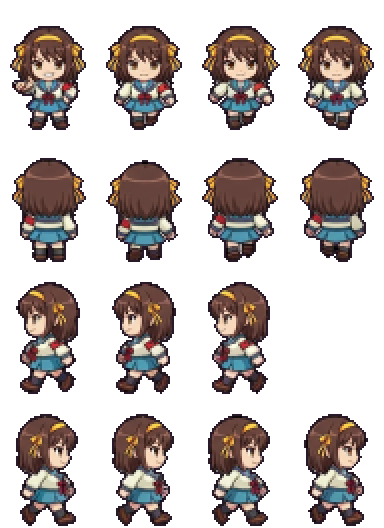
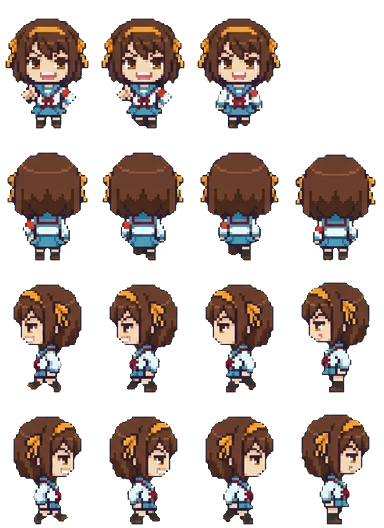
Redraw Suzumiya Haruhi in the shared art style
Claude-Session: https://claude.ai/code/session_01KaPsBYLrtbRfMYNG2xeBCK

diff --git a/docs/app.js b/docs/app.js
@@ -75,7 +75,7 @@ function spr(cat, k, col, sc) {
   return `<div class="clip" style="width:${it[2] * sc}px;height:${it[3] * sc}px;POS"><img class="px" src="assets/decor/${cat}.png" alt="" style="width:${S.sw * sc}px;height:${S.sh * sc}px;margin-left:${-col * S.cw * sc}px;margin-top:${-i * S.ch * sc}px"></div>`;
 }
 const icon = (k, sz) => `<span class="itm" style="width:${sz}px;height:${sz}px"><img class="px" src="assets/ui/items.png" alt="" style="width:${IT.length * sz}px;height:${sz}px;margin-left:${-ITM[k].i * sz}px"></span>`;
-const face = (id, w) => { const s = w / 96; return `<img class="px" src="assets/ch/${id}.webp?v=71" alt="" style="position:absolute;width:${384 * s}px;height:${528 * s}px;left:${-(96 * s - w) / 2}px;top:0;max-width:none">`; };
+const face = (id, w) => { const s = w / 96; return `<img class="px" src="assets/ch/${id}.webp?v=72" alt="" style="position:absolute;width:${384 * s}px;height:${528 * s}px;left:${-(96 * s - w) / 2}px;top:0;max-width:none">`; };
 
 // ---------- 저장 ----------
 let fb = null, user = null, S = null, saveT = null;
@@ -143,7 +143,7 @@ function sleepHTML(id, r, dy) {
   const pos = r.a && r.a[0] === 'bed' ? 'left:3%;bottom:20%' : r.b && r.b[0] === 'bed' ? 'right:3%;bottom:20%' : 'left:calc(50% - 44px);bottom:6%';
   const s = 36 / 96;
   return `<div style="position:absolute;width:88px;height:56px;${pos};z-index:${dy ? 4 : 5};${dy ? `transform:translate(12px,${dy}px)` : ''}"><div style="position:absolute;inset:0;filter:brightness(.22)">
-    <div style="position:absolute;left:11px;top:1px;width:36px;height:50px;overflow:hidden;transform:rotate(-90deg)"><img class="px" src="assets/ch/${id}.webp?v=71" alt="" style="width:${384 * s}px;height:${528 * s}px;max-width:none;margin-top:${-132 * s}px"></div>
+    <div style="position:absolute;left:11px;top:1px;width:36px;height:50px;overflow:hidden;transform:rotate(-90deg)"><img class="px" src="assets/ch/${id}.webp?v=72" alt="" style="width:${384 * s}px;height:${528 * s}px;max-width:none;margin-top:${-132 * s}px"></div>
     <div style="position:absolute;left:19px;top:19px;width:67px;height:29px;border:2px solid var(--ink);border-radius:8px 6px 4px 4px;background:#8ccff5;background-image:repeating-linear-gradient(90deg,transparent 0 10px,rgba(255,255,255,.5) 10px 13px)"></div></div>
     ${dy ? '' : '<span class="emo" style="left:8px;top:-22px;color:#5b6bd6">Z z z</span>'}</div>`;
 }
@@ -153,8 +153,8 @@ function roomHTML(id, o, scale) {
     <div class="floor" style="background-color:${PAL[r.fc][1]};background-image:${tileUrl('floor', r.fl)}"></div>
     ${slot('deco', r.dc, 'left:6%;top:6%')}${slot('furn', r.a, 'left:3%;bottom:20%')}${slot('furn', r.b, 'right:3%;bottom:20%')}${slot('prop', r.pr, 'left:28%;bottom:4%;z-index:2')}
     ${id && o.sleeping && g ? sleepHTML(g, r, -16) : ''}${id && o.sleeping ? sleepHTML(id, r) : ''}${id && o.job ? `<div style="position:absolute;left:50%;top:38%;transform:translateX(-50%);z-index:5;background:#fff;border:3px solid var(--ink);border-radius:10px;padding:6px 10px;font-size:11px;text-align:center;line-height:1.5"><img src="assets/ui/ic_job.png" alt="" style="width:18px;vertical-align:-4px"> ${WORK[id] ? WORK[id][1] : esc(JOB_NAME[id]) + ' 알바 중'}${g ? `<br><small>${esc(nameOf(g))}도 같이</small>` : ''}<br><b id="jobleft">${timeLeft(o.job.until)}</b></div>` : ''}
-    ${id ? `<div class="shadow" id="shd" ${o.sleeping || o.job ? 'style="display:none"' : ''}></div><div class="man" id="man" ${o.sleeping || o.job ? 'style="display:none"' : ''}><img class="px" src="assets/ch/${id}.webp?v=71" alt="${esc(nameOf(id))}"></div><span class="emo" id="emo" hidden></span><span class="mumble" id="mum" hidden></span>` : ''}
-    ${g ? `<div class="shadow" id="gshd" ${hideG}></div><div class="man" id="gman" ${hideG}><img class="px" src="assets/ch/${g}.webp?v=71" alt="${esc(nameOf(g))}"></div><span class="emo" id="gemo" hidden></span><span class="mumble gmum" id="gmum" hidden></span>` : ''}
+    ${id ? `<div class="shadow" id="shd" ${o.sleeping || o.job ? 'style="display:none"' : ''}></div><div class="man" id="man" ${o.sleeping || o.job ? 'style="display:none"' : ''}><img class="px" src="assets/ch/${id}.webp?v=72" alt="${esc(nameOf(id))}"></div><span class="emo" id="emo" hidden></span><span class="mumble" id="mum" hidden></span>` : ''}
+    ${g ? `<div class="shadow" id="gshd" ${hideG}></div><div class="man" id="gman" ${hideG}><img class="px" src="assets/ch/${g}.webp?v=72" alt="${esc(nameOf(g))}"></div><span class="emo" id="gemo" hidden></span><span class="mumble gmum" id="gmum" hidden></span>` : ''}
     ${o.sleeping ? `<div class="night"></div><div class="sleepleft">쿨쿨 · 일어나기까지 <b id="sleepleft">${timeLeft(wakeAt(o)).replace(' 남음', '')}</b></div>` : ''}
   </div>`;
 }
@@ -167,7 +167,7 @@ function meterHTML(o) {
 const ic = (act, img, label, pressed) => `<button class="ic" data-act="${act}" ${pressed ? 'aria-pressed="true"' : ''}><img src="assets/ui/ic_${img}.png?v=2" alt="">${label}</button>`;
 
 let dropStyle = null; const cheat = {};
-const APP_V = 144, COUPONS = { NINOGUYA: 3000 };
+const APP_V = 145, COUPONS = { NINOGUYA: 3000 };
 // 쿠폰 입력 정리: 한글 자판 상태로 친 글자(ㅜㅑㅜㅐ혀ㅛㅁ)도 영어 자판 글자로 바꾸고, 대소문자·띄어쓰기·마침표는 무시해요
 const KEY = { ㄱ: 'r', ㄲ: 'R', ㄴ: 's', ㄷ: 'e', ㄸ: 'E', ㄹ: 'f', ㅁ: 'a', ㅂ: 'q', ㅃ: 'Q', ㅅ: 't', ㅆ: 'T', ㅇ: 'd', ㅈ: 'w', ㅉ: 'W', ㅊ: 'c', ㅋ: 'z', ㅌ: 'x', ㅍ: 'v', ㅎ: 'g',
   ㅏ: 'k', ㅐ: 'o', ㅑ: 'i', ㅒ: 'O', ㅓ: 'j', ㅔ: 'p', ㅕ: 'u', ㅖ: 'P', ㅗ: 'h', ㅘ: 'hk', ㅙ: 'ho', ㅚ: 'hl', ㅛ: 'y', ㅜ: 'n', ㅝ: 'nj', ㅞ: 'np', ㅟ: 'nl', ㅠ: 'b', ㅡ: 'm', ㅢ: 'ml', ㅣ: 'l',
@@ -407,7 +407,7 @@ function startTrip(k) {
   if (tg) lines[1] = `${nameOf(tg)}: ${withHim(sub(pick(GLX(tg).trip), o, c.n), tg)}`;
   const n = (FR[id] || [4, 4, 4, 4])[3], el = document.createElement('div'); el.className = 'tripview';
   el.innerHTML = `<div class="tsay"> </div><div class="tstage" style="background-image:url(assets/travel/${k}.png?v=2)"><div class="tplace">${esc(c.n)}</div>
-    <div class="twalker"><img class="px" src="assets/ch/${id}.webp?v=71" alt=""></div>${tg ? `<div class="twalker tgirl"><img class="px" src="assets/ch/${tg}.webp?v=71" alt=""></div>` : ''}<span class="emo tjoy">♪</span></div>
+    <div class="twalker"><img class="px" src="assets/ch/${id}.webp?v=72" alt=""></div>${tg ? `<div class="twalker tgirl"><img class="px" src="assets/ch/${tg}.webp?v=72" alt=""></div>` : ''}<span class="emo tjoy">♪</span></div>
     <div class="tbar"><i></i></div><button class="btn white tskip" data-tskip="1">바로 돌아오기</button>`;
   document.body.appendChild(el);
   const gimg = el.querySelector('.tgirl img'), gn = tg ? (FR[tg] || [4, 4, 4, 4])[3] : 1;
@@ -665,7 +665,7 @@ setInterval(() => { if (S && user) { tickTime(); save(); } }, 60000);
     if (nv > APP_V && !location.search.includes('u=' + nv)) { location.replace(location.pathname + '?u=' + nv); return; }
   } catch { }
   app.innerHTML = '<div class="start"><div class="egg"><div class="scr"></div></div><div class="note">불러오는 중....</div></div>';
-  const [c, t, f, it, mu, ct, tv, gl, sts] = await Promise.all(['data/chars.json', 'data/talk.json', 'data/frames.json', 'data/items.json', 'data/mumble.json', 'data/countries.json', 'data/travel.json', 'data/girls.json', 'data/sets.json'].map(u => fetch(u + '?v=144').then(r => r.ok ? r.json() : {})));
+  const [c, t, f, it, mu, ct, tv, gl, sts] = await Promise.all(['data/chars.json', 'data/talk.json', 'data/frames.json', 'data/items.json', 'data/mumble.json', 'data/countries.json', 'data/travel.json', 'data/girls.json', 'data/sets.json'].map(u => fetch(u + '?v=145').then(r => r.ok ? r.json() : {})));
   CH = c; CHM = Object.fromEntries(c.map(x => [x.id, x])); TALK = t; FR = f; IT = it; ITM = Object.fromEntries(it.map(x => [x.k, x])); MUM = mu; CTRY = ct; TRV = tv; GL = Array.isArray(gl) ? gl : []; SETS = Array.isArray(sts) ? sts : []; GLM = Object.fromEntries(GL.map(x => [x.id, x]));
   try { await initFirebase(); } catch (e) { console.warn('Firebase 연결 실패, 기기 저장으로', e); fb = null; }
   if (fb) {

diff --git a/docs/index.html b/docs/index.html
@@ -18,6 +18,6 @@
 <main id="app" aria-live="polite"></main>
 <div id="toast" role="status" hidden></div>
 <script src="firebase-config.js?v=3"></script>
-<script type="module" src="app.js?v=144"></script>
+<script type="module" src="app.js?v=145"></script>
 </body>
 </html>
